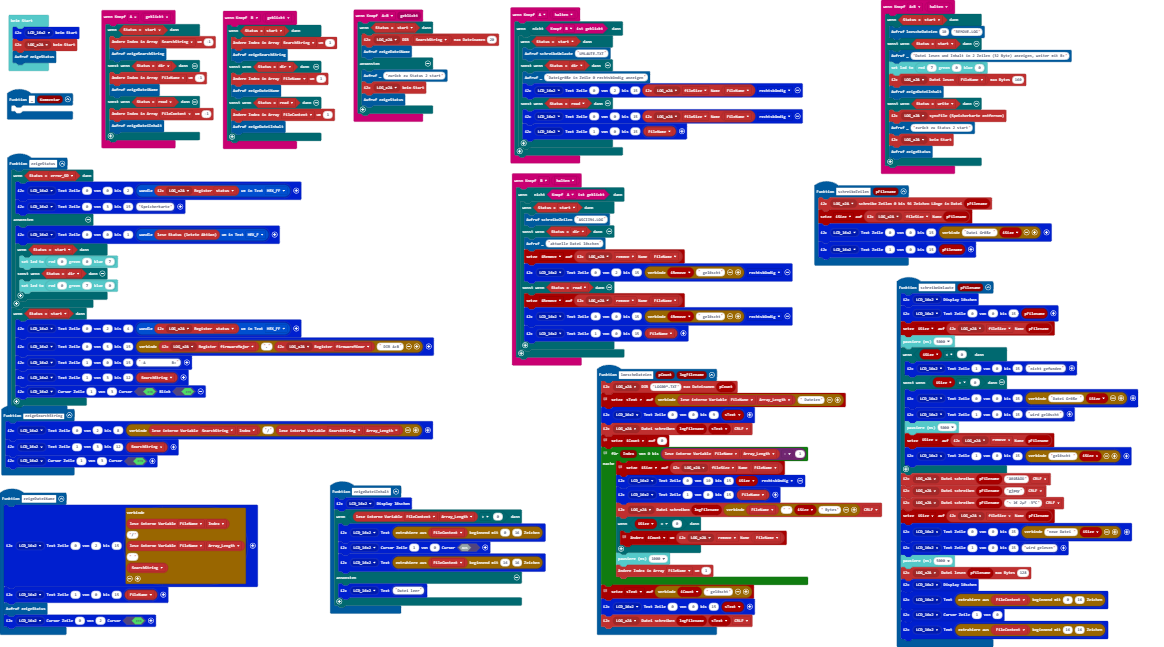
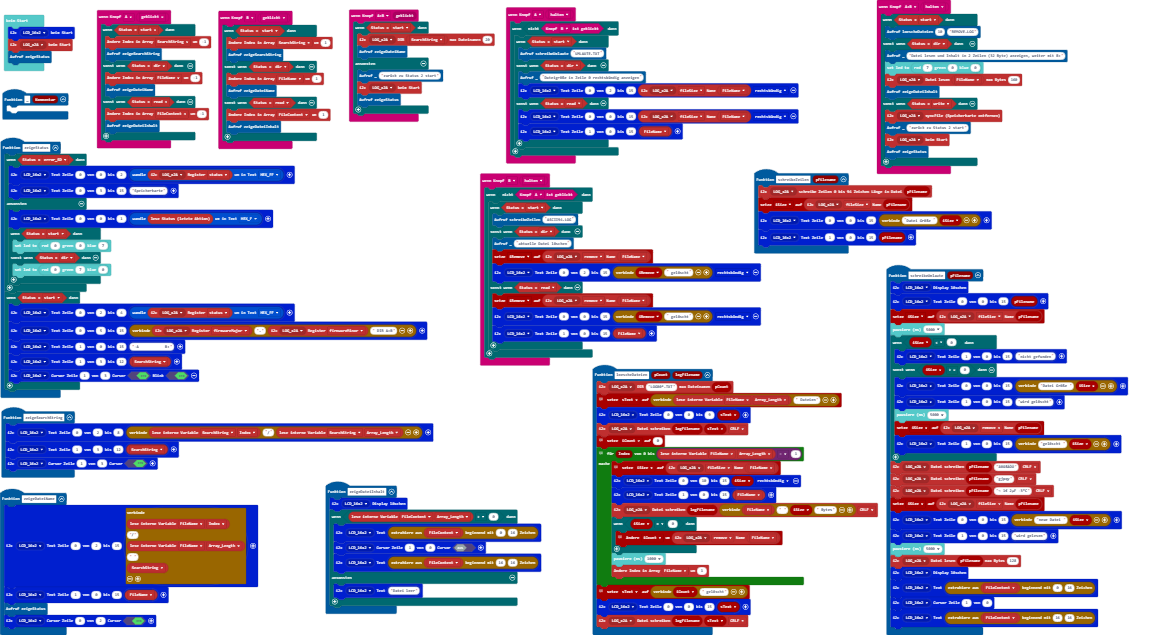
Aktualisiere main.blocks, main.ts

diff --git a/main.ts b/main.ts
@@ -168,7 +168,7 @@ function loescheDateien (pCount: number, logFilename: string) {
 input.onButtonEvent(Button.AB, ButtonEvent.Hold, function () {
     if (qwiicopenlog.isStatus(qwiicopenlog.eStatus.start)) {
         loescheDateien(10, "REMOVE.LOG")
-    } else if (qwiicopenlog.isStatus(qwiicopenlog.eStatus.start)) {
+    } else if (qwiicopenlog.isStatus(qwiicopenlog.eStatus.dir)) {
         _("Datei lesen und Inhalt in 2 Zeilen (32 Byte) anzeigen, weiter mit B+")
         basic.setLedColor(basic.rgb(7, 0, 0))
         qwiicopenlog.readFile(qwiicopenlog.qwiicopenlog_eADDR(qwiicopenlog.eADDR.LOG_x2A), qwiicopenlog.getString(qwiicopenlog.eArray.FileName), 160)
